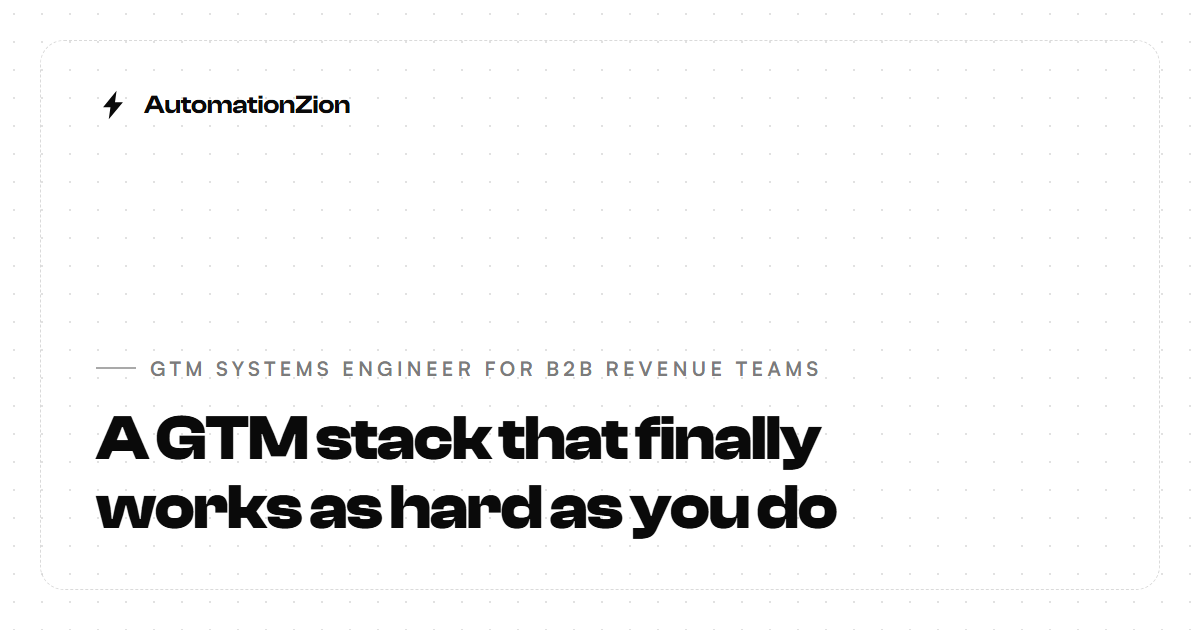
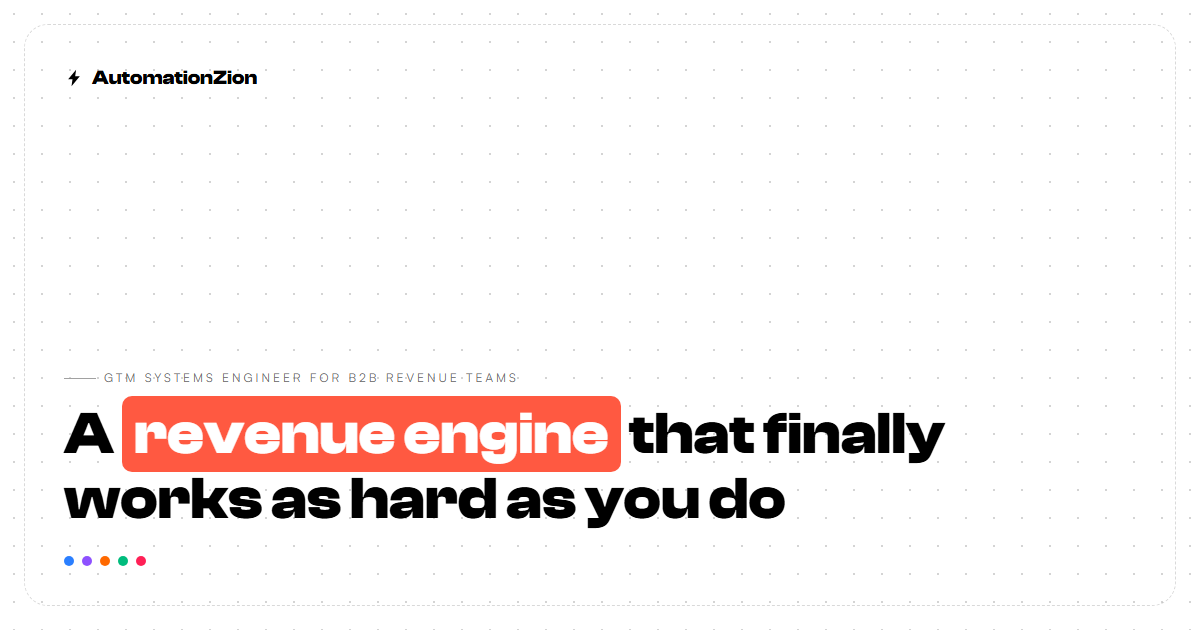
Add visible focus ring and refresh OG preview images
Adds an explicit focus-visible outline for keyboard navigation.
Regenerates the stale home and about OG cards to match the current
site design instead of the old grayscale layout.

Changed region(s): [[0.0308, 0.573, 0.8017, 0.8746], [0.0617, 0.0905, 0.3083, 0.181], [0.0308, 0.8746, 0.1233, 0.9048]]

diff --git a/src/routes/layout.css b/src/routes/layout.css
@@ -131,6 +131,12 @@
 		outline-color: color-mix(in oklch, var(--ring) 50%, transparent);
 	}
 
+	*:focus-visible {
+		outline-style: solid !important;
+		outline-width: 2px !important;
+		outline-offset: 2px !important;
+	}
+
 	body {
 		background-color: var(--background);
 		background-image: radial-gradient(
